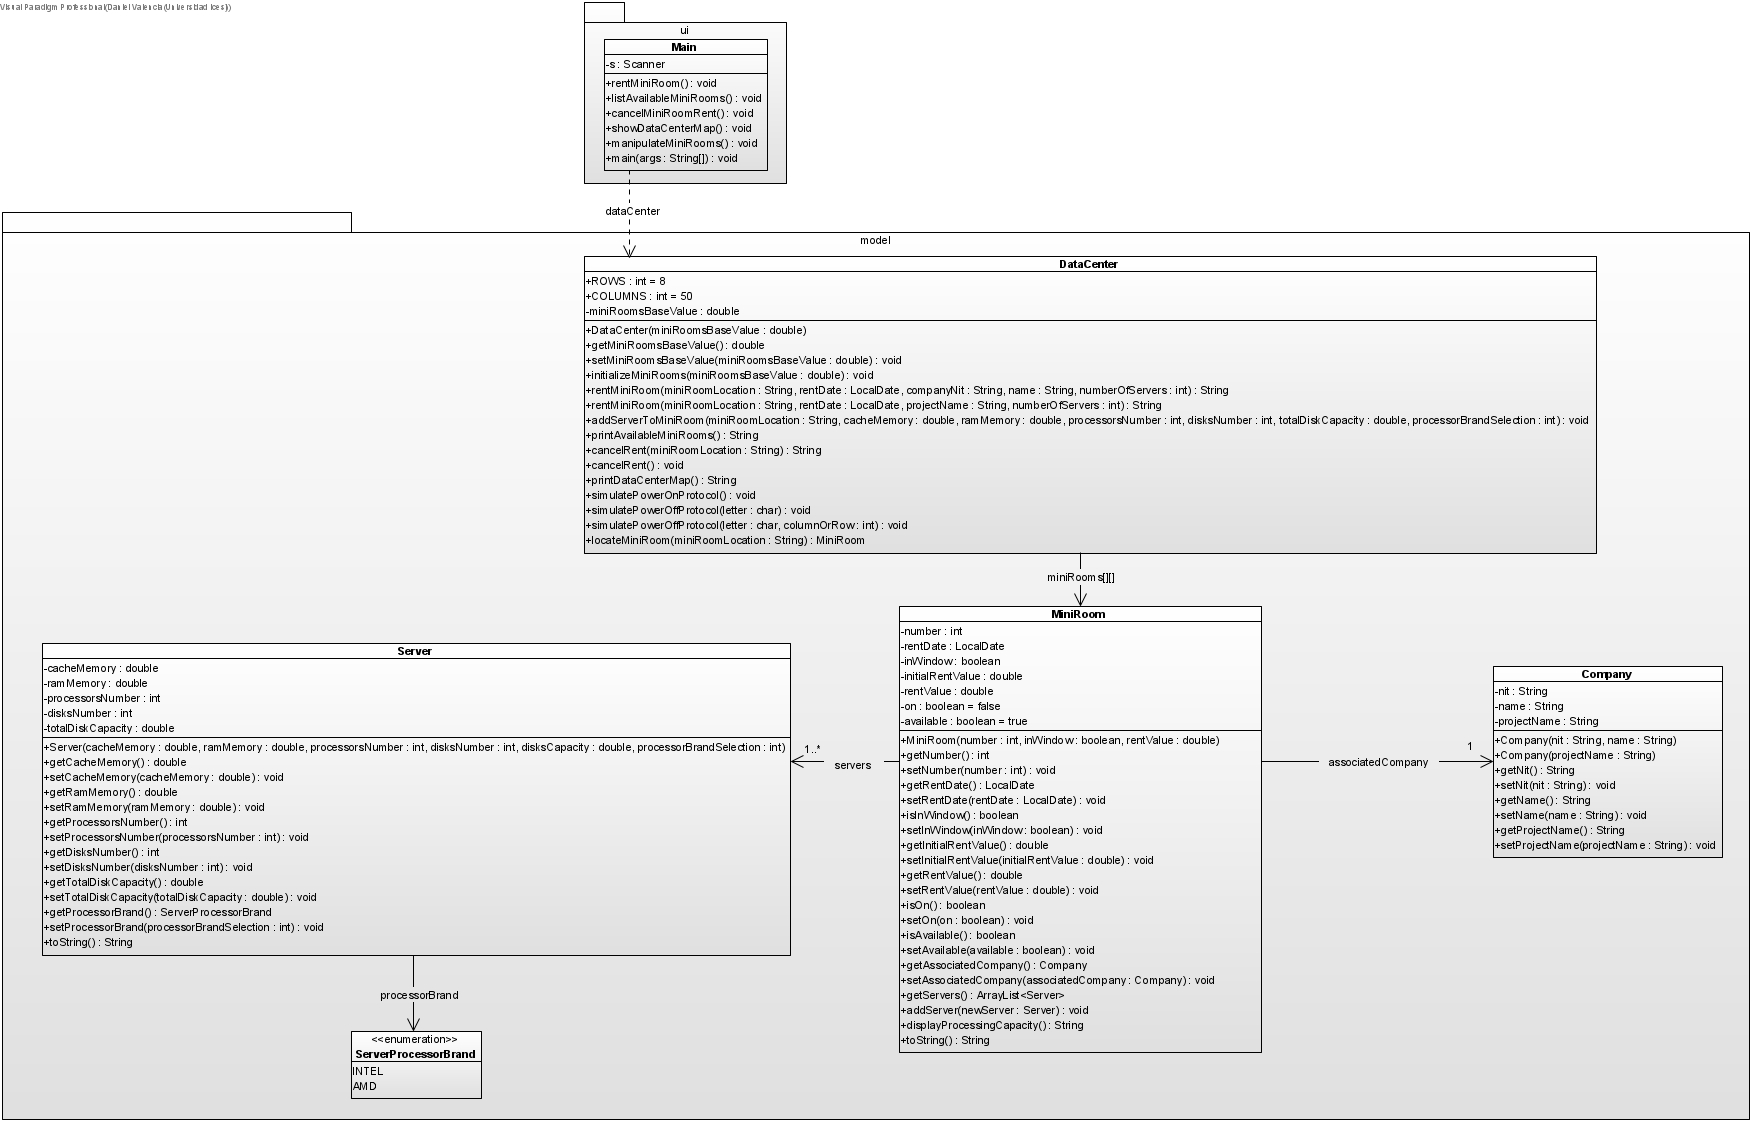
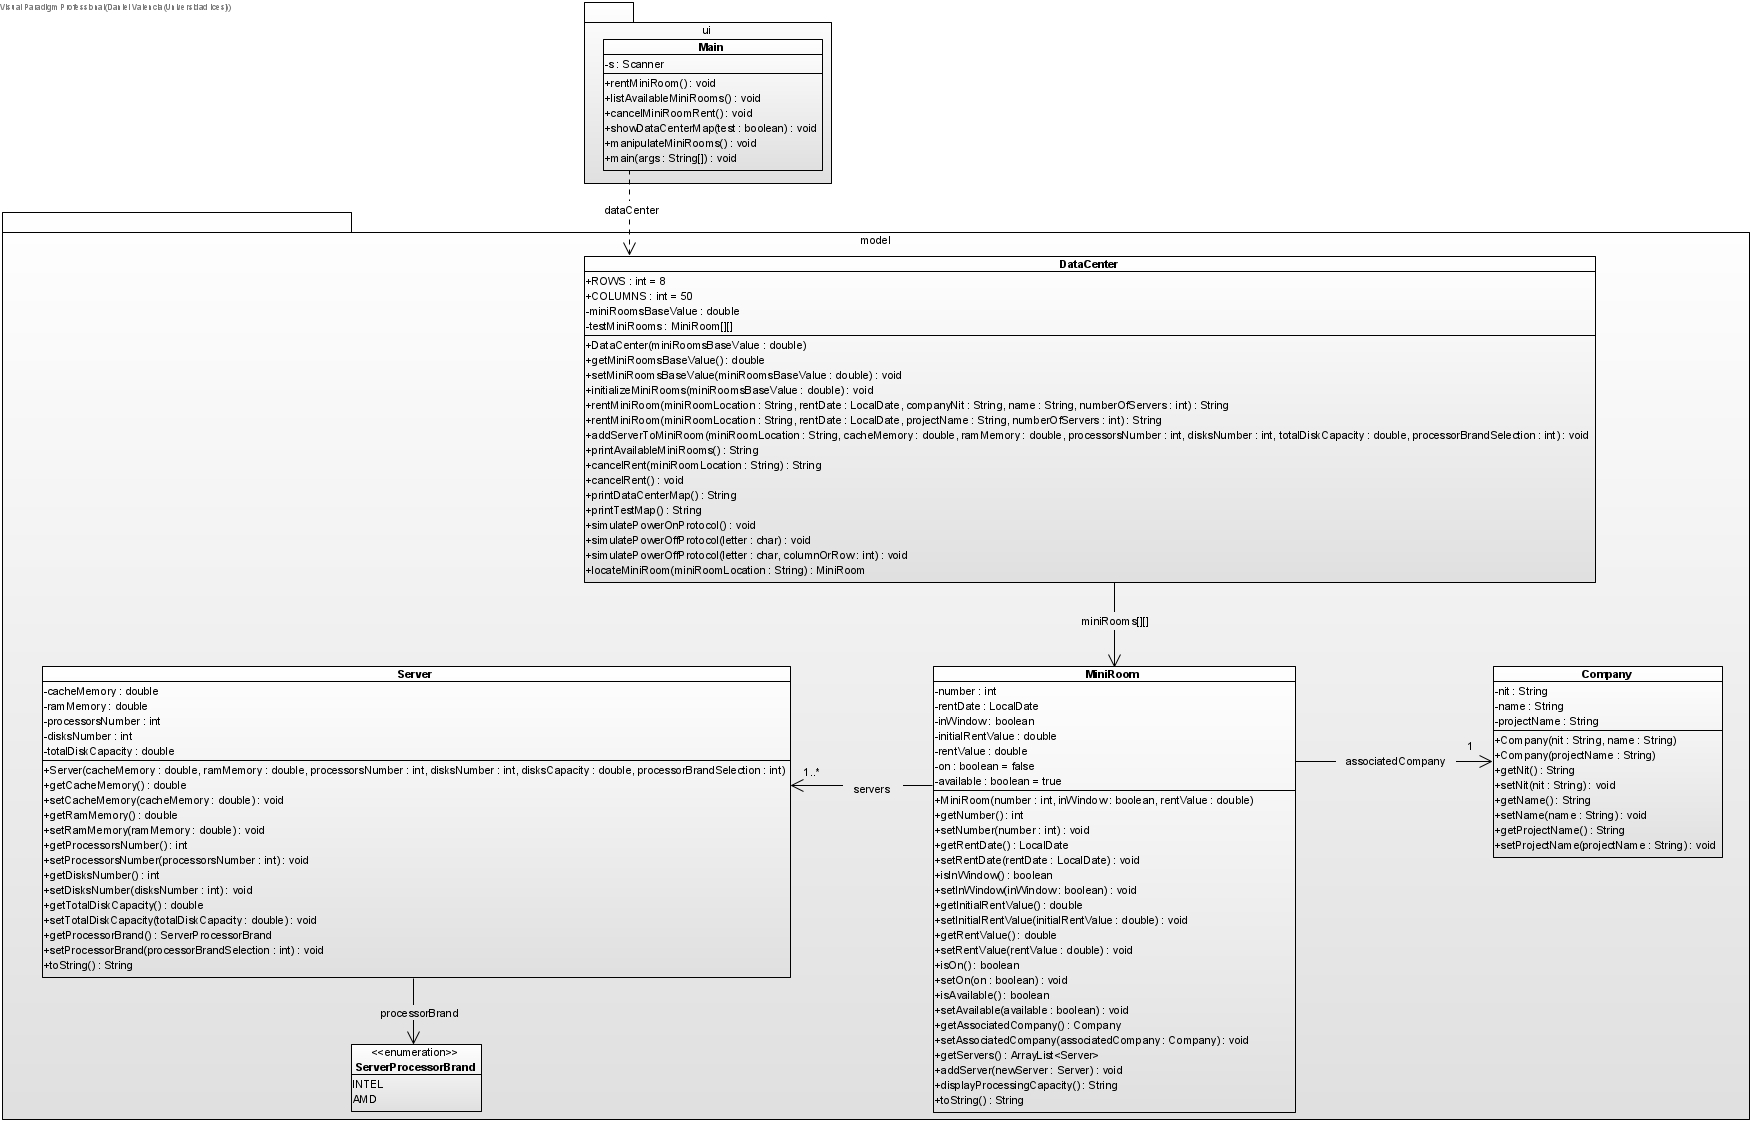
Correction diagram and bug fix off protocols

diff --git a/src/model/DataCenter.java b/src/model/DataCenter.java
@@ -522,7 +522,7 @@ public class DataCenter {
         switch (letter) {
             case 'M': // For the mini rooms in the specified column
                 for (int i = 0; i < testMiniRooms.length; i++) {
-                    for (int j = 0; j < testMiniRooms.length; j++) {
+                    for (int j = 0; j < testMiniRooms[0].length; j++) {
                         if ((columnOrRow - 1) == j) {
                             testMiniRooms[i][j].setOn(false);
                         }
